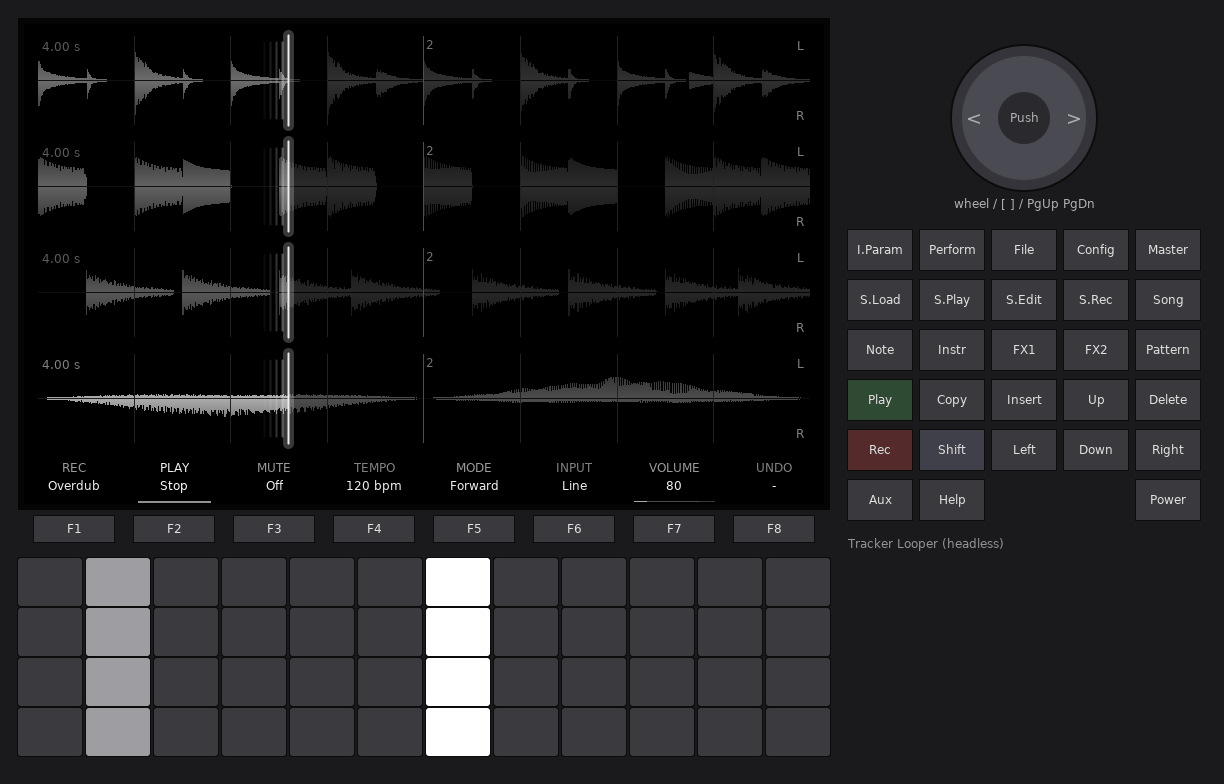
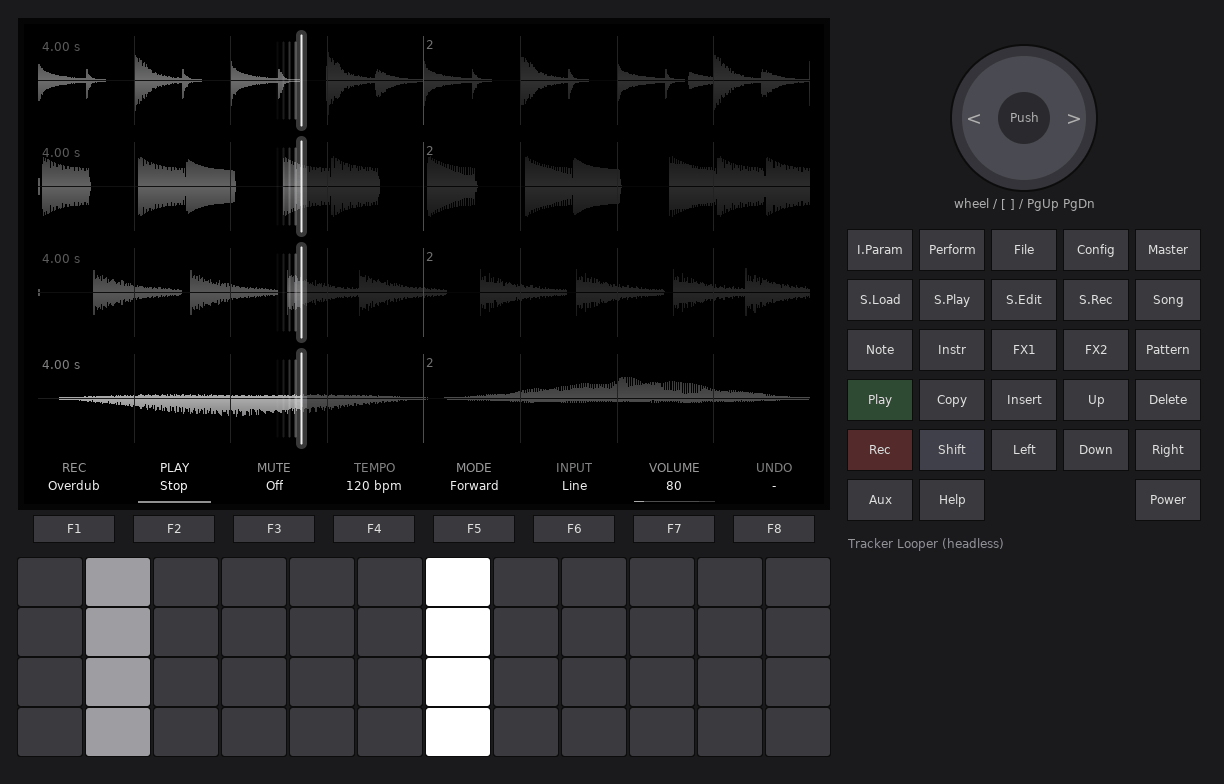
Lanes: no channel labels, no grid line on the loop's end
The L / R (mono: M) labels on the right of each lane are gone, and a bar
or beat line within 3 px of a lane's right end is not drawn (a loop a
hair over whole bars put one on its last pixels).

The README screenshot script starts each take 30 ms past its bar line:
since the harness sets 120 bpm at start-up, taps on the line itself fell
just before it and made 3-bar loops. Screenshots regenerated.

diff --git a/src/looper/app.cpp b/src/looper/app.cpp
@@ -1310,13 +1310,6 @@ void App::drawLane(int t, uint32_t now) {
         scissorOff();
 
         if (!perf_) drawGrid(t, wx, wy, span);   // the effect cells take its place (display-list budget)
-        color(kDim);
-        if (v.mono.load()) {
-            text(wx1 - 6, wy + 2, kFontSmall, Disp::kOptRightX, "M");
-        } else {
-            text(wx1 - 6, wy + 2, kFontSmall, Disp::kOptRightX, "L");
-            text(wx1 - 6, wy1 - 16, kFontSmall, Disp::kOptRightX, "R");
-        }
         if (s == TrackState::kQueued) {   // waiting for its bar line
             color(kAmber);
             text(wx1 - 24, wy + 2, kFontSmall, Disp::kOptRightX, "starts on the next bar");
@@ -1945,6 +1938,9 @@ void App::drawGrid(int t, int wx, int wy, uint32_t span, int w, int h) {
         for (uint32_t i = from; i < span && count < cap; i += step) {
             if (i == 0 || (skipBars && i % bar == off)) continue;
             const int x = wx + int(float(i) * k);
+            // None on the loop's end: a loop a hair over whole bars would
+            // otherwise put a line on its last pixels.
+            if (x > wx + w - 3) continue;
             d_->vertex2f(x * 16, wy * 16);
             d_->vertex2f(x * 16, wy1 * 16);
             words_ += 2;
